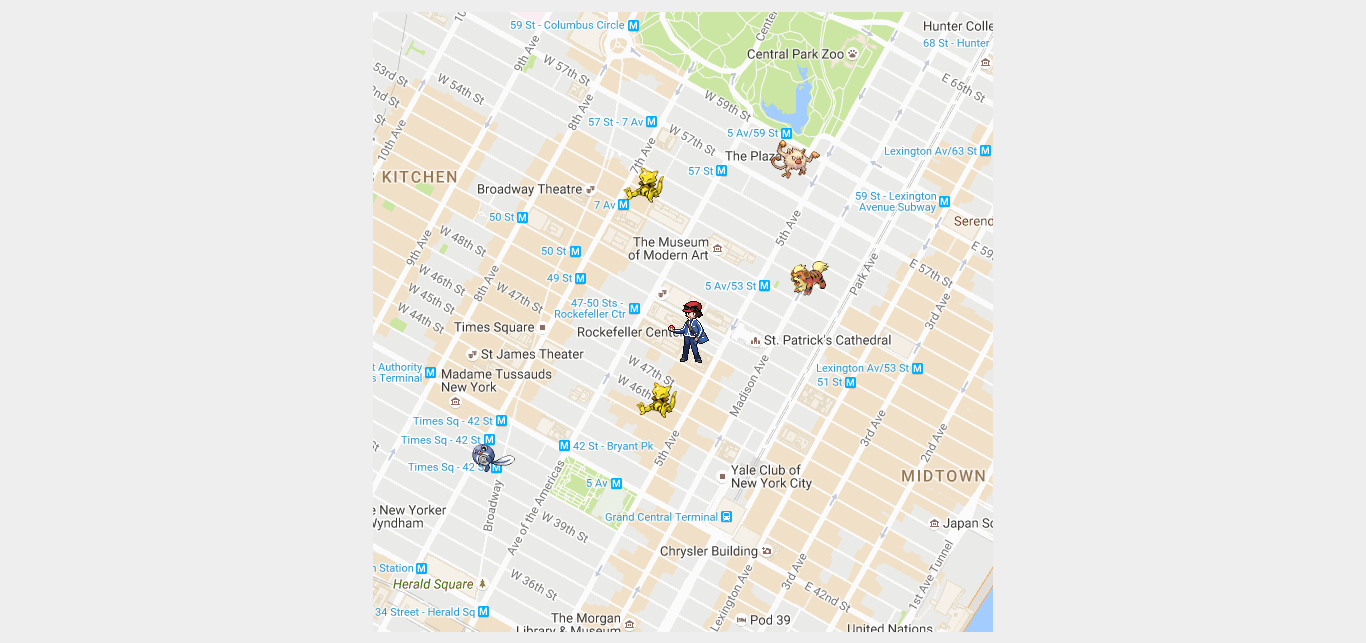
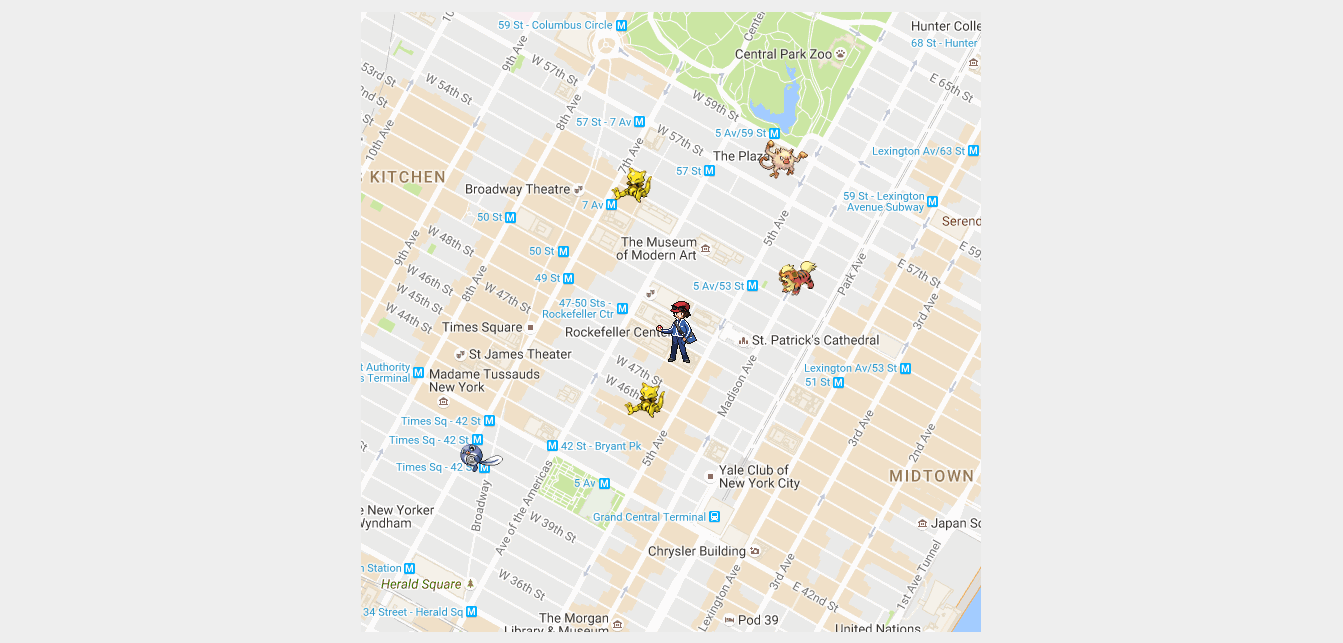
commit

diff --git a/portfolio/selections.html b/portfolio/selections.html
@@ -35,7 +35,7 @@
 
 	<div id="Pokemon">
 	<h5>Pokemon GO!</h5>
-	<img src="spellewasc.github.io/portfolio/Pokemon_groupCodeAPI/screen.png">
+	<img id="Pokemon_img" src="https://spellewasc.github.io/portfolio/Pokemon_groupCodeAPI/screen.png">
 	<p></p>
 	</div>
 

diff --git a/portfolio/selections.css b/portfolio/selections.css
@@ -7,6 +7,11 @@ h1 {
 	color:white;
 }
 
+img {
+	width: 50%;
+	height: auto;
+}
+
 #Projects {
 	background-color: #ffffff;
 	color: #5bc0de;
